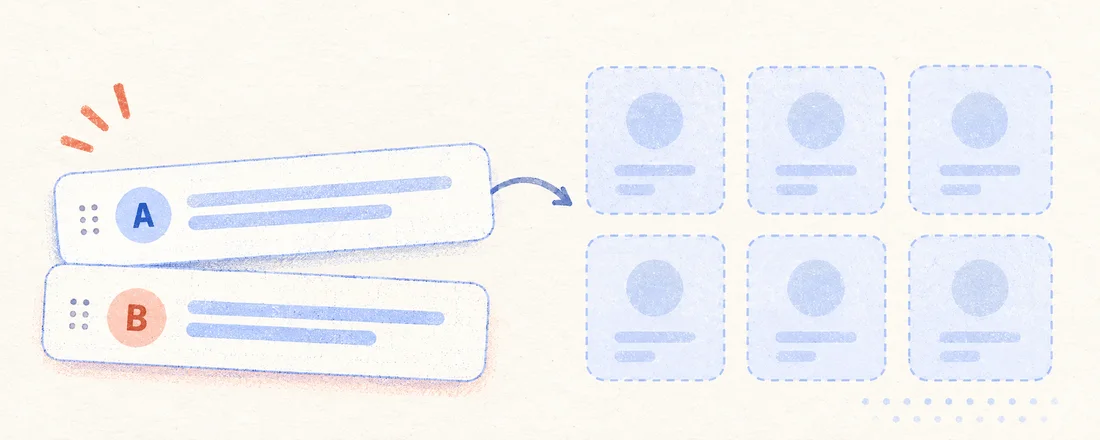
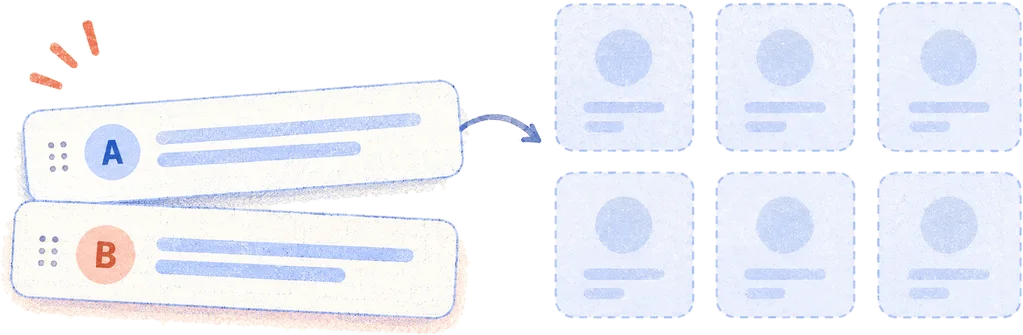
Aperçus : illustrations détourées, sans papier ni décor
Les sept illustrations des aperçus ne gardent que leurs éléments
d'interface (cartes, cases, pastilles, petits traits) : le papier crème,
les points, les feuilles et les taches de couleur sont transparents.
Plus de cadre arrondi ni d'ombre autour de l'image.

diff --git a/moteur/css/briefing.css b/moteur/css/briefing.css
@@ -241,15 +241,14 @@ body.is-briefing .briefing {
    maximale et laisse la colonne à moitié vide. */
 .preview-art { width: 100%; height: auto; max-height: 66vh; display: block; }
 .briefing-preview > .preview-art { flex: 0 0 auto; }
-/* L'illustration d'une famille (previews.js) : une image peinte, à fond
-   crème, et non un tracé à marges invisibles : ni élargie ni remontée. */
+/* L'illustration d'une famille (previews.js) : une image peinte et
+   détourée (fond transparent), recadrée au plus près de ses éléments, et non
+   un tracé à marges invisibles : ni élargie ni remontée. */
 .briefing-body:not(.has-art) .briefing-preview > img.preview-art {
   width: 100%;
-  max-height: 66vh;
-  margin: 0;
+  max-height: 60vh;
+  margin: 8px 0 0;
   object-fit: contain;
-  border-radius: 22px;
-  box-shadow: 0 10px 30px rgb(33 50 92 / 8%);
 }
 
 /* La citation du client, quand l'exercice en a une, remplace l'aperçu. */
